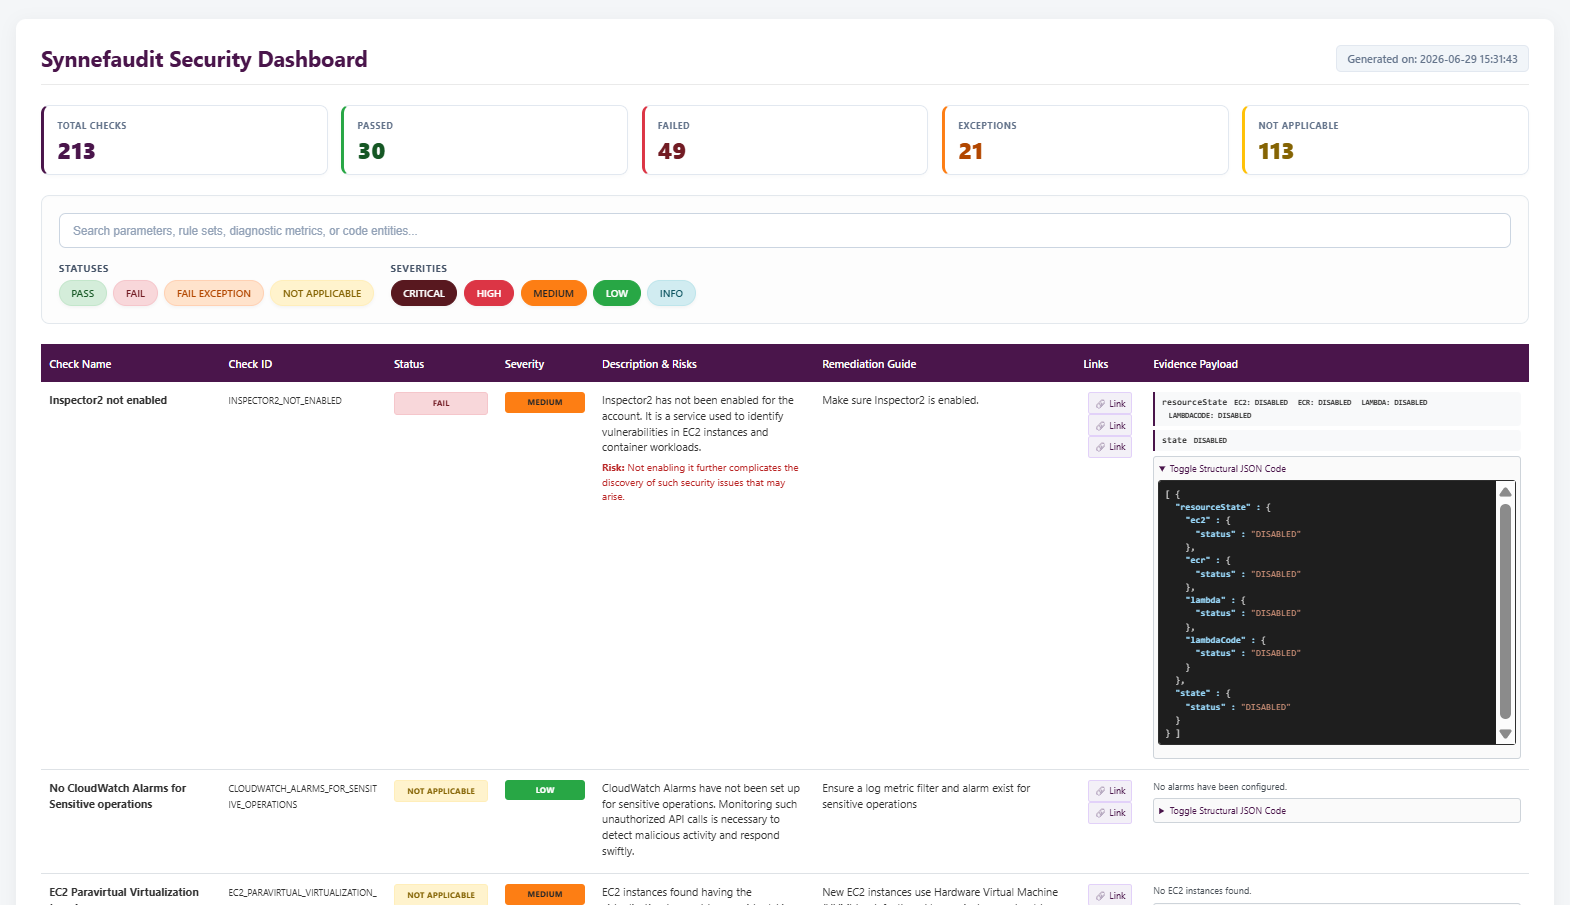
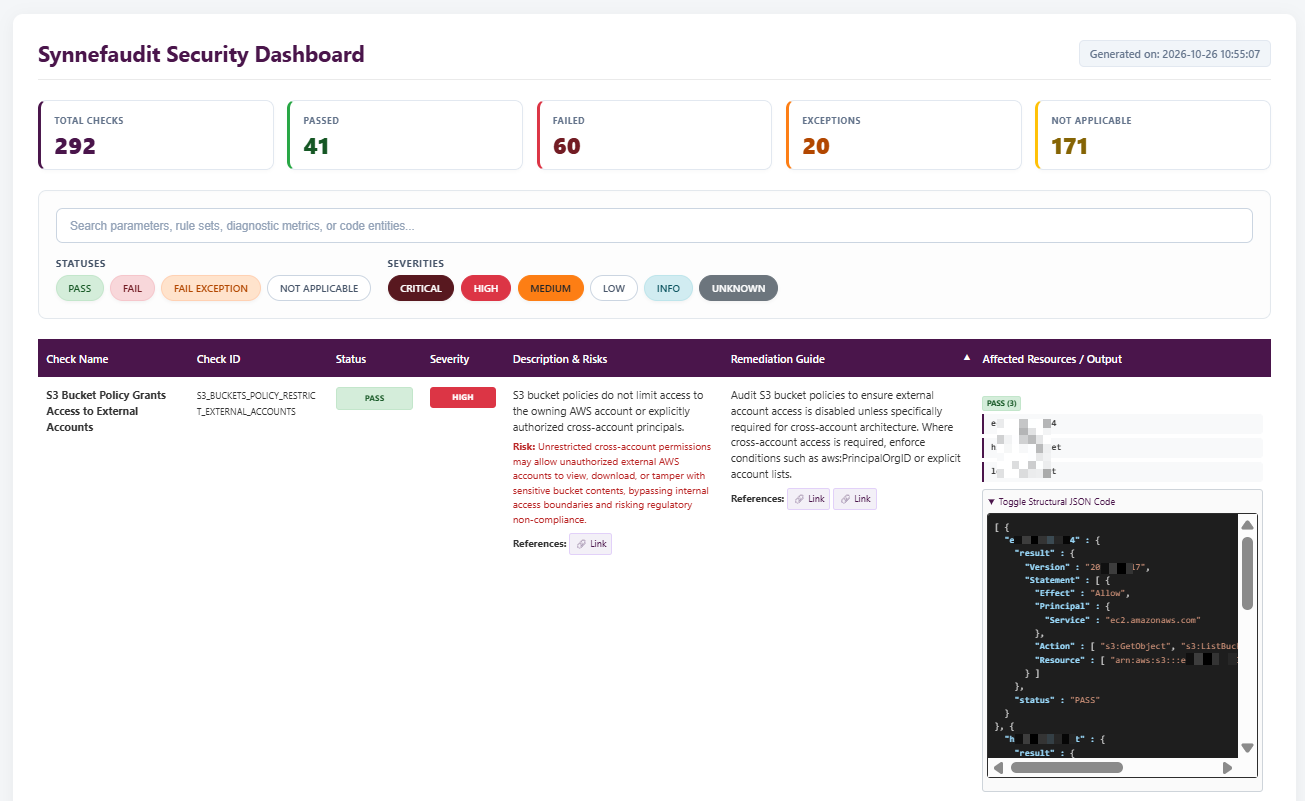
updated README + HTML output wording

diff --git a/src/main/java/com/twelvesec/synnefaudit/HtmlReportGenerator.java b/src/main/java/com/twelvesec/synnefaudit/HtmlReportGenerator.java
@@ -548,7 +548,7 @@ public class HtmlReportGenerator {
                             <th onclick="sortTable(3)">Severity</th>
                             <th onclick="sortTable(4)">Description & Risks</th>
                             <th onclick="sortTable(5)">Remediation Guide</th>
-                            <th>Evidence Payload</th>
+                            <th>Affected Resources / Output</th>
                         </tr>
                     </thead>
                     <tbody id="tableBody">

diff --git a/README.md b/README.md
@@ -3,7 +3,43 @@
 This is a cli tool that can be used to perform audits on AWS infrastructure.
 After running, a detailed report is generated based on different metrics and requirements which includes the response data for each item, issue descriptions, recommendations and links to official resources that expand on what is mentioned and offer additional assistance.
 
-# How to use
+# Usage
+
+```
+usage: synnefaudit [options]
+
+=================================================================================
+ SYNNEFAUDIT SECURITY DASHBOARD CLI
+=================================================================================
+This program executes live AWS architecture scans or builds HTML reports locally.
+
+GLOBAL OPTIONS (Optional):
+     --format <FORMAT>    Output strategy variations: json | html | all (default value)
+  -h,--help               Show this grouped help menu context.
+
+LIVE SCAN MODE OPTIONS:
+     --outdir <OUTDIR>    Target path where audit assets drop
+     --region <REGION>    Target cloud scope deployment geography
+
+LIVE SCAN AUTHENTICATION:
+     --profile <PROFILE>    Named credential map stored via local AWS config file
+
+REPORT COMPILATION MODE OPTIONS (Isolated processing path):
+     --from-json <JSON_PATH>    Skips live network requests entirely to forge HTML visualizations
+                                directly from a local log source
+```
+
+## Usage Examples
+
+```
+synnefaudit --help
+
+synnefaudit --region eu-west-2 --profile myscanprofileonAWS --outdir C:\Users\myuser\Desktop\synnefaudit-output --format json
+
+synnefaudit --from-json C:\Users\myuser\Desktop\synnefaudit-output\synnefaudit-output-2026XXXXXXXXX.json
+```
+
+## Setup (AWS)
 
 The AWS permissions required for the user are: SecurityAudit, ViewOnlyAccess
 
@@ -36,18 +72,6 @@ In order to test everything is set up correctly, you may run a command such as:
 ```
 aws s3 ls
 ```
-
-Call the program using the following parameters:
-```
---region {region} --profile {profile} --outdir {absolute-path-to-output-directory}
-```
-
-If there is already a JSON output you want to use to create an HTML file, run:
-```
---from-json {absolute-path-to-json-file}
-```
-
-You may also use `--help` for more options.
 
 # Output
 
